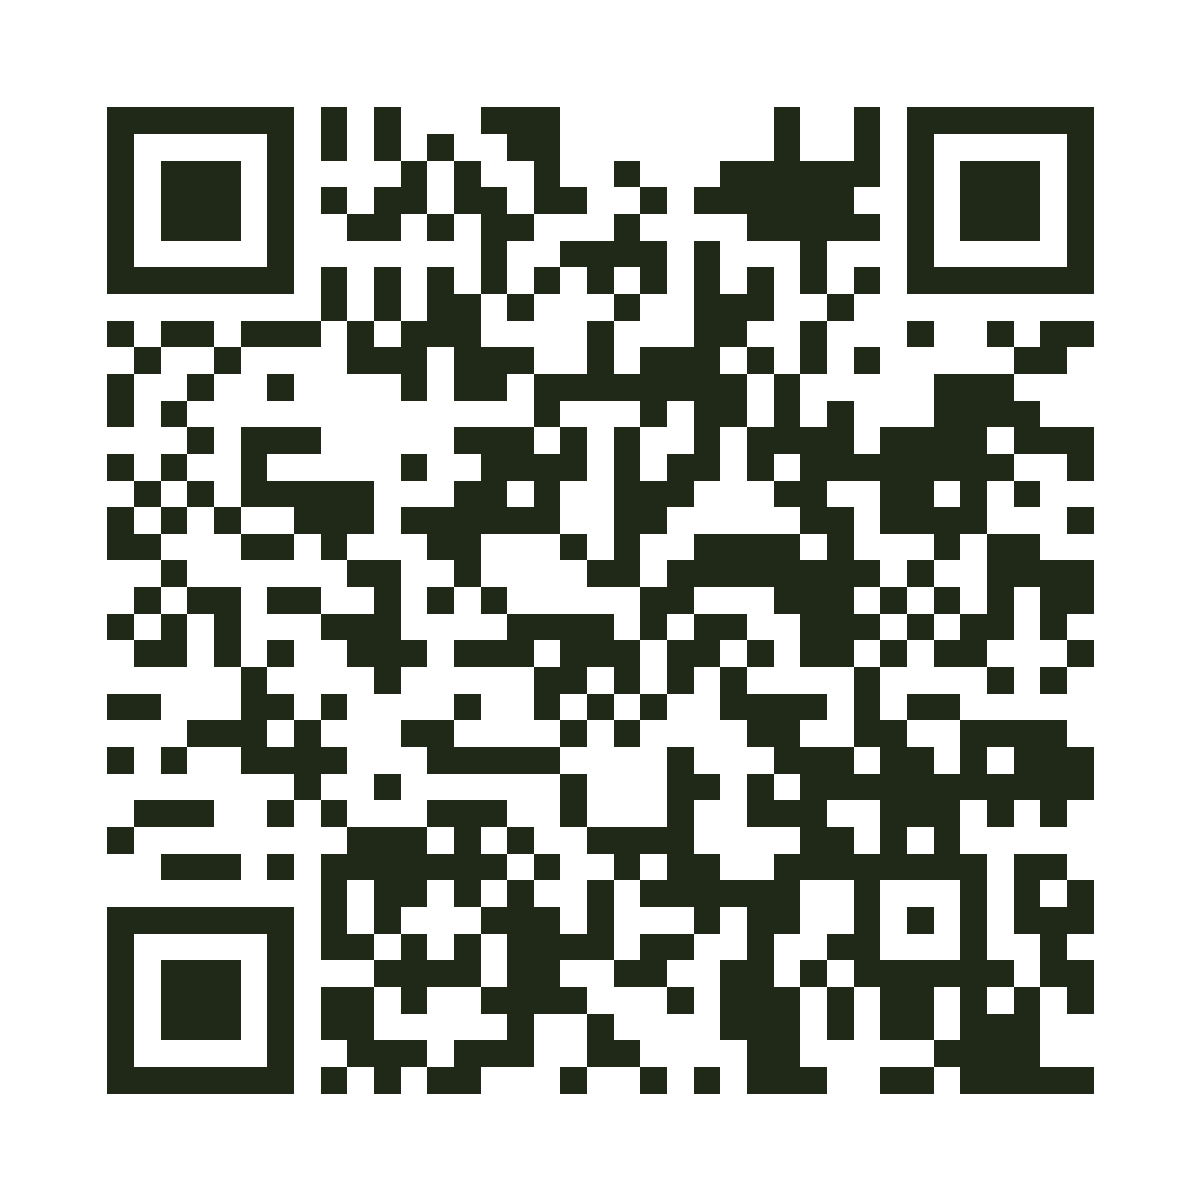
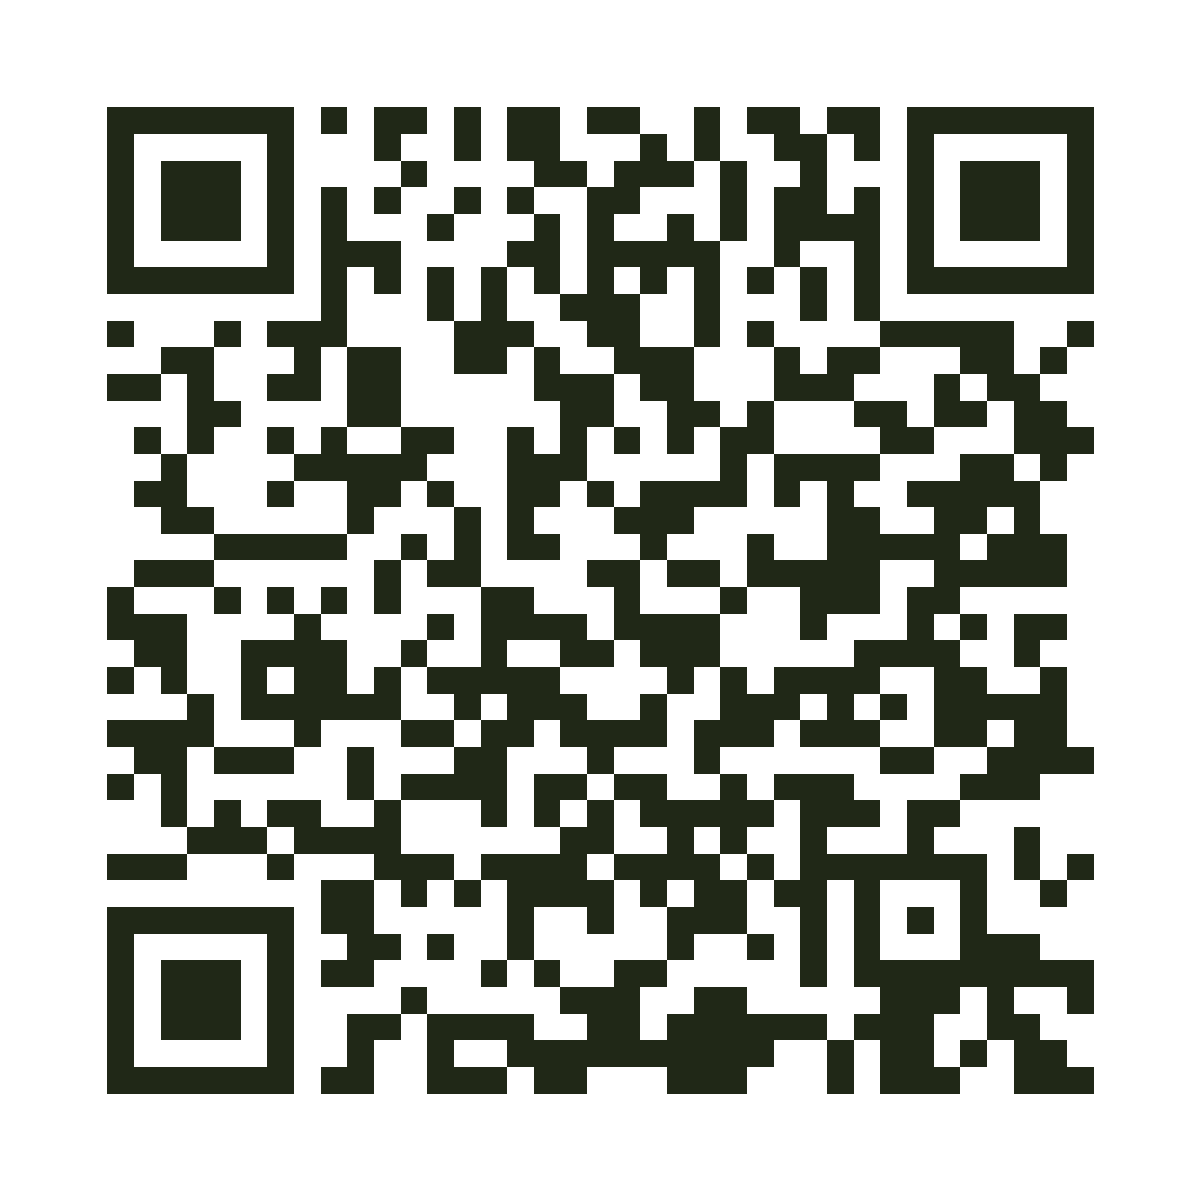
Perbaikan VERCEL

Changed region(s): [[0.0617, 0.0617, 0.925, 0.925]]

diff --git a/docs/order-system/SETUP.md b/docs/order-system/SETUP.md
@@ -62,7 +62,7 @@ Site configuration → Environment variables:
 | Variabel | Nilai | Rahasia |
 |---|---|---|
 | `DATABASE_URL` | connection string pooler Supabase | **Ya**, scope Functions/Runtime |
-| `NEXT_PUBLIC_SITE_URL` | domain final, mis. `https://toodaycoffe.netlify.app` | Tidak |
+| `NEXT_PUBLIC_SITE_URL` | domain final, mis. `https://toodaycafee.vercel.app` | Tidak |
 | `NEXT_PUBLIC_DEFAULT_OUTLET` | `tooday-main` | Tidak |
 | `NEXT_PUBLIC_SUPABASE_URL`, `NEXT_PUBLIC_SUPABASE_PUBLISHABLE_KEY` | opsional, untuk nudge Realtime | Tidak (publishable key memang publik) |
 | `DATABASE_POOL_MAX` | opsional, default 5 | Tidak |
@@ -85,7 +85,7 @@ Project memakai Next.js App Router dengan Route Handlers; Netlify menjalankannya
 
 - Halaman staf `/kasir/qr`: kartu siap cetak (logo, "Scan, pilih, lalu bayar di kasir.", QR, tiga langkah, URL teks), tombol **Cetak / PDF** dan **Unduh PNG**. Isi kode meja bila outlet memakai QR per meja.
 - Atau dari terminal: `NEXT_PUBLIC_SITE_URL=https://<domain> npm run qr -- --outlet tooday-main [--table M03]` → `docs/order-system/qr/*.png|svg`.
-- File yang sudah dibuat: `docs/order-system/qr/tooday-qr-tooday-main.png` untuk `https://toodaycoffe.netlify.app/order?outlet=tooday-main&source=qr`. Isinya sudah diverifikasi dengan decoder perangkat lunak, **belum dengan kamera HP**. Pindai dengan minimal dua HP (Android dan iPhone) dari jarak meja sebelum mencetak, dan buat ulang bila domain final berbeda.
+- File yang sudah dibuat: `docs/order-system/qr/tooday-qr-tooday-main.png` untuk `https://toodaycafee.vercel.app/order?outlet=tooday-main&source=qr` (kartu siap cetak: `tooday-qr-card-tooday-main.png`). Isinya sudah diverifikasi dengan decoder perangkat lunak, **belum dengan kamera HP**. Pindai dengan minimal dua HP (Android dan iPhone) dari jarak meja sebelum mencetak, dan buat ulang bila domain final berbeda.
 - Jaga area putih di sekitar QR (quiet zone); jangan menempel stiker atau ornamen di atas modul QR.
 
 ## 6. Membuka order

diff --git a/docs/order-system/TEST_RESULTS.md b/docs/order-system/TEST_RESULTS.md
@@ -45,7 +45,7 @@ Cara mengulang: `npm run db:local && npm run db:migrate && npm run db:seed -- --
 | Mobile dan keyboard | E2E: 360/390 px tanpa scroll horizontal; kasir 768/390/1180 tidak terpotong; Tab sampai tombol Tambah, Enter, Escape menutup sheet | Lolos |
 | Reduced motion | E2E: 14 menu tampil dengan `reducedMotion: reduce`; CSS mematikan animasi tiket/papan | Lolos |
 | Refresh deep link di deployment | Lokal: `/pesanan/<id>`, `/kasir`, `/antrean`, `/api/*` berjalan di `next start` | **Belum diverifikasi di Netlify** |
-| QR | `docs/order-system/qr/tooday-qr-tooday-main.png` didekode ulang dengan jsQR → `https://toodaycoffe.netlify.app/order?outlet=tooday-main&source=qr` | **Belum dipindai dengan kamera HP** |
+| QR | `docs/order-system/qr/tooday-qr-tooday-main.png` didekode ulang dengan jsQR → `https://toodaycafee.vercel.app/order?outlet=tooday-main&source=qr` | **Belum dipindai dengan kamera HP** |
 
 ## Screenshot (`screenshots/`)
 
